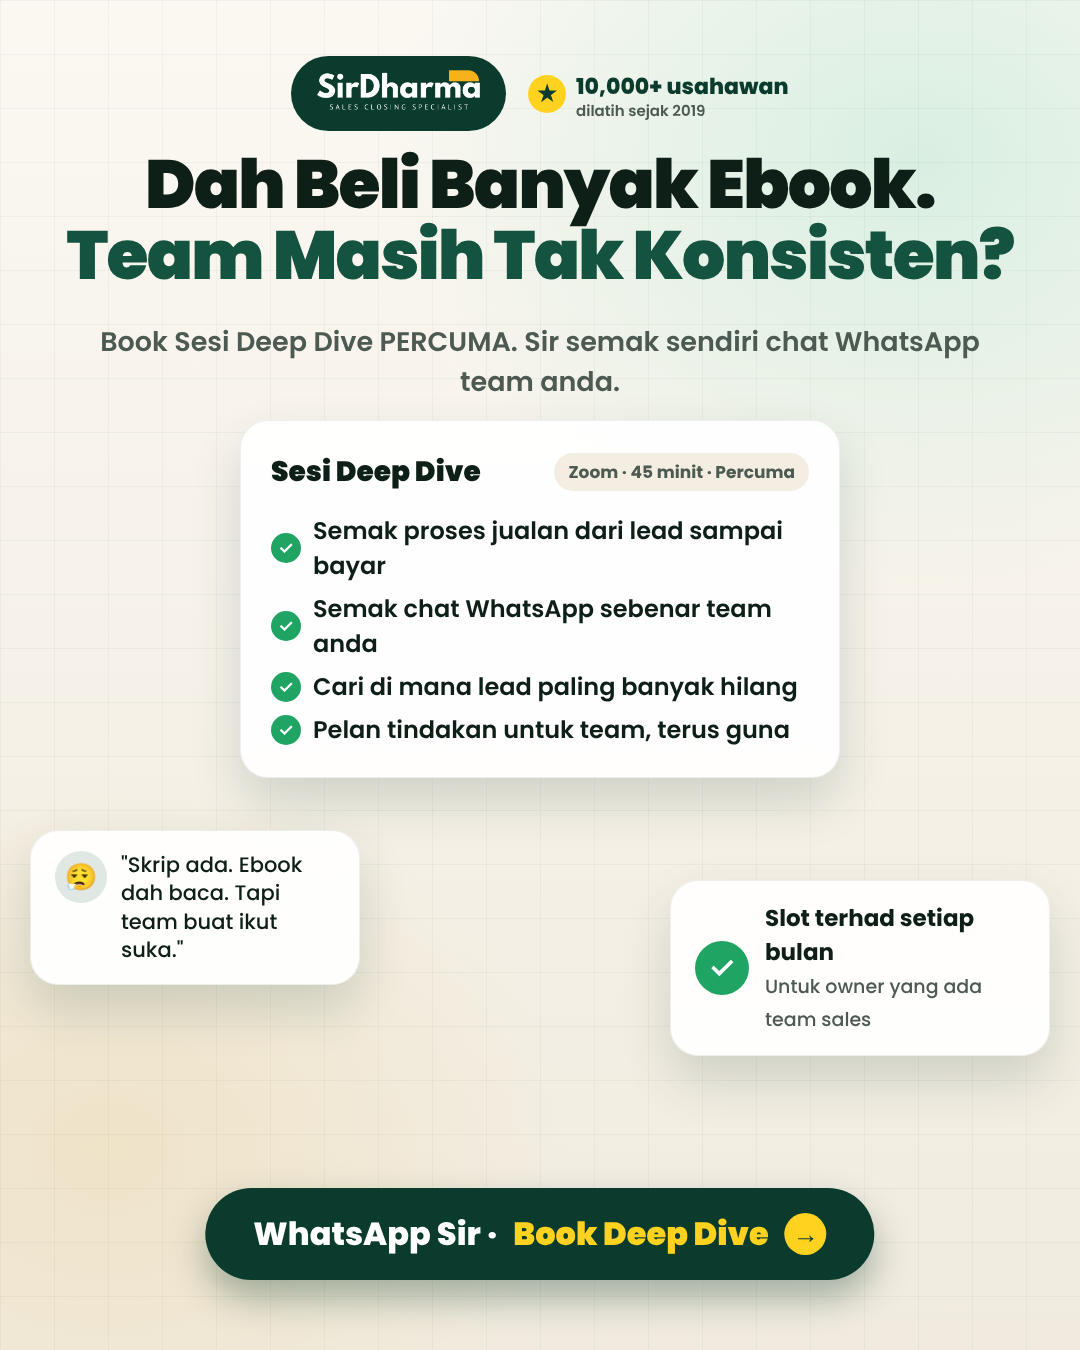
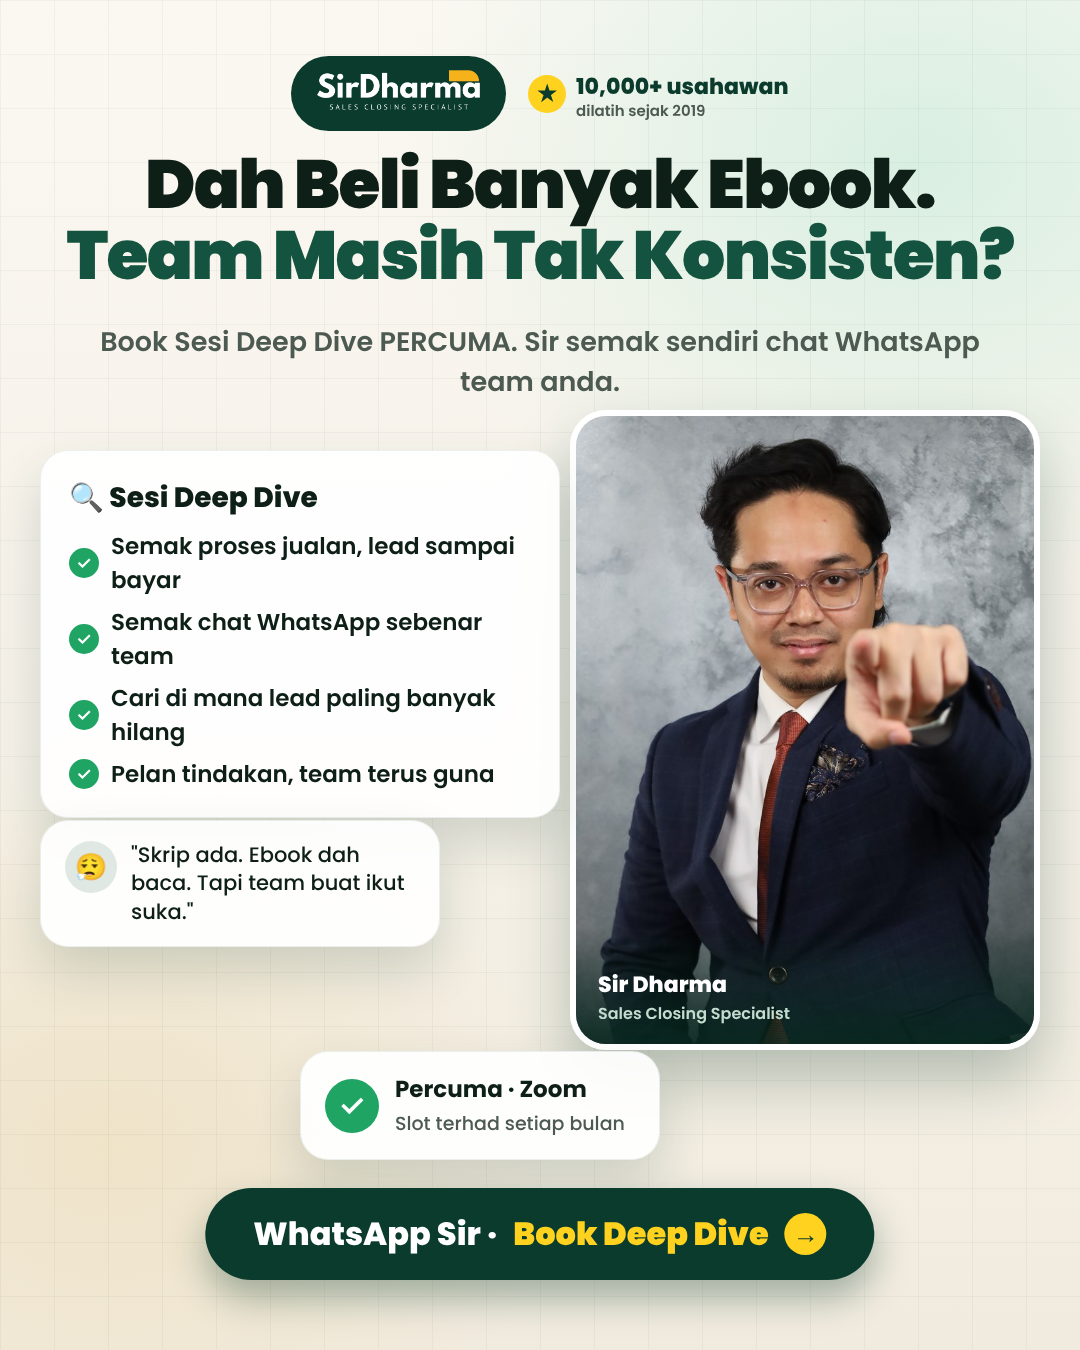
Deep Dive posters: add real photos of Sir and coaching session
Claude-Session: https://claude.ai/code/session_01TPky1w5Smp95p1hdnhCb8t

Changed region(s): [[0.0306, 0.28, 0.9778, 0.8711]]

diff --git a/ads/creative/deepdive.html b/ads/creative/deepdive.html
@@ -69,6 +69,10 @@ h1 .hl{color:var(--g2)}
 .coupon .pc{background:var(--y);border-radius:16px;padding:10px 14px;font-weight:900;font-size:30px;color:var(--g)}
 #r3 h1{font-size:58px}#r3 .sub{top:300px}
 .fine{position:absolute;bottom:26px;left:0;right:0;text-align:center;font-size:15px;color:#8a938d;z-index:3}
+.photo{position:absolute;border-radius:36px;overflow:hidden;box-shadow:0 30px 60px rgba(11,59,44,.28);border:6px solid #fff}
+.photo img{width:100%;height:100%;object-fit:cover;display:block}
+.photo .cap{position:absolute;left:0;right:0;bottom:0;padding:40px 22px 18px;background:linear-gradient(transparent,rgba(7,41,31,.85));color:#fff;font-weight:800;font-size:22px}
+.photo .cap small{display:block;font-weight:600;font-size:16px;color:#c2dccf}
 </style></head><body>
 <!-- D1: Dah beli ebook -->
 <section class="p" id="d1">
@@ -76,15 +80,16 @@ h1 .hl{color:var(--g2)}
 <h1>Dah Beli Banyak Ebook.<br><span class="hl">Team Masih Tak Konsisten?</span></h1>
 <p class="sub">Book Sesi Deep Dive PERCUMA. Sir semak sendiri chat WhatsApp team anda.</p>
 <div class="stage">
-<div class="glass dash" style="top:10px;width:600px">
-<div class="hd"><b>Sesi Deep Dive</b><span>Zoom · 45 minit · Percuma</span></div>
-<div class="chk" style="font-size:24px">Semak proses jualan dari lead sampai bayar</div>
-<div class="chk" style="font-size:24px">Semak chat WhatsApp sebenar team anda</div>
-<div class="chk" style="font-size:24px">Cari di mana lead paling banyak hilang</div>
-<div class="chk" style="font-size:24px">Pelan tindakan untuk team, terus guna</div>
+<div class="photo" style="right:40px;top:0;width:470px;height:640px"><img src="../../assets/galeri/studio-tunjuk.jpg" style="object-position:center 12%"><div class="cap">Sir Dharma<small>Sales Closing Specialist</small></div></div>
+<div class="glass float" style="left:40px;top:40px;width:520px;padding:26px 28px">
+<div class="t" style="font-size:28px;margin-bottom:10px">🔍 Sesi Deep Dive</div>
+<div class="chk" style="font-size:23px">Semak proses jualan, lead sampai bayar</div>
+<div class="chk" style="font-size:23px">Semak chat WhatsApp sebenar team</div>
+<div class="chk" style="font-size:23px">Cari di mana lead paling banyak hilang</div>
+<div class="chk" style="font-size:23px">Pelan tindakan, team terus guna</div>
 </div>
-<div class="glass float bub" style="left:30px;top:420px;width:330px"><span class="av">😮💨</span><p>"Skrip ada. Ebook dah baca. Tapi team buat ikut suka."</p></div>
-<div class="glass float toast" style="right:30px;top:470px;width:380px"><span class="ok">✓</span><span><b>Slot terhad setiap bulan</b><small>Untuk owner yang ada team sales</small></span></div>
+<div class="glass float bub" style="left:40px;top:410px;width:400px"><span class="av">😮💨</span><p>"Skrip ada. Ebook dah baca. Tapi team buat ikut suka."</p></div>
+<div class="glass float toast" style="left:300px;bottom:10px;width:360px"><span class="ok">✓</span><span><b>Percuma · Zoom</b><small>Slot terhad setiap bulan</small></span></div>
 </div>
 <div class="cta">WhatsApp Sir · <b>Book Deep Dive</b><span>→</span></div>
 </section>
@@ -95,7 +100,8 @@ h1 .hl{color:var(--g2)}
 <h1>Ebook Bagi Skrip.<br><span class="hl">Deep Dive Bagi Sistem.</span></h1>
 <p class="sub">Team ada guideline, tapi tak ada orang yang pantau? Jom semak bersama Sir.</p>
 <div class="stage">
-<div class="phone"><div class="scr">
+<div class="photo" style="left:40px;top:40px;width:560px;height:420px"><img src="../../assets/galeri/coaching-hq.jpg"><div class="cap">Sesi bersama team sales di HQ klien<small>Sir Dharma, Sales Closing Specialist</small></div></div>
+<div class="phone" style="left:auto;right:60px;transform:none;z-index:2"><div class="scr">
 <div class="wa"><i>SD</i><div><b>Sir Dharma</b><small>dalam talian</small></div></div>
 <div class="chat">
 <div class="m out">Salam Sir, saya dah beli ebook. Team saya 3 orang tapi closing masih naik turun.</div>
@@ -104,9 +110,8 @@ h1 .hl{color:var(--g2)}
 <div class="m in">Khamis 9 malam di Zoom, ajak sekali wakil team ya.</div>
 <div class="m out">Set! 🙏</div>
 </div></div></div>
-<div class="glass float bub" style="left:30px;top:30px;width:290px"><span class="av">📘</span><p>"Dah ada skrip. Masalahnya, team tak konsisten guna."</p></div>
-<div class="glass float" style="right:30px;top:200px;width:320px"><div class="t">🔍 Dalam Deep Dive</div><div class="chk">Semak chat team</div><div class="chk">Cari lead bocor</div><div class="chk">Pelan tindakan</div></div>
-<div class="glass float toast" style="left:40px;bottom:60px;width:360px"><span class="ok">✓</span><span><b>Percuma · Zoom 45 minit</b><small>Slot terhad setiap bulan</small></span></div>
+<div class="glass float bub" style="left:40px;top:500px;width:380px"><span class="av">📘</span><p>"Dah ada skrip. Masalahnya, team tak konsisten guna."</p></div>
+<div class="glass float toast" style="left:40px;bottom:20px;width:360px"><span class="ok">✓</span><span><b>Percuma · Zoom</b><small>Slot terhad setiap bulan</small></span></div>
 </div>
 <div class="cta">Book Deep Dive <b>Percuma</b><span>→</span></div>
 </section>
